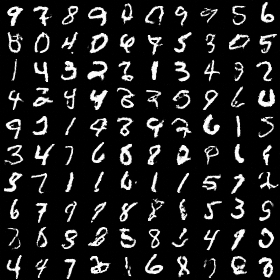
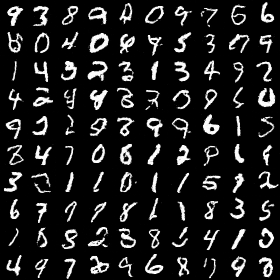
new sota, 0.178, groupnorm, average pooling

diff --git a/model.py b/model.py
@@ -11,7 +11,7 @@ class ResidualBlock(nn.Module):
         super().__init__()
         self.time_embedding = nn.Linear(1, out_channels)
         self.conv = nn.Conv2d(in_channels, out_channels, 3, padding=1)
-        self.norm = nn.BatchNorm2d(out_channels)
+        self.norm = nn.GroupNorm(8, out_channels)
         self.activation = nn.SiLU()
 
         if in_channels != out_channels:
@@ -38,7 +38,7 @@ class ResidualBlock(nn.Module):
 
 class UNet(nn.Module):
     """Simplified U-Net for MNIST autoencoder"""
-    def __init__(self, hidden_dim=256):
+    def __init__(self):
         super().__init__()
         
         # Encoder
@@ -58,7 +58,7 @@ class UNet(nn.Module):
         self.output_proj = nn.Conv2d(64, 1, 1)
         
         # Downsampling and upsampling
-        self.downsample = nn.MaxPool2d(2)
+        self.downsample = nn.AvgPool2d(2)
         self.upsample = nn.Upsample(scale_factor=2, mode='bilinear', align_corners=False)
 
     def forward(self, x, t):
